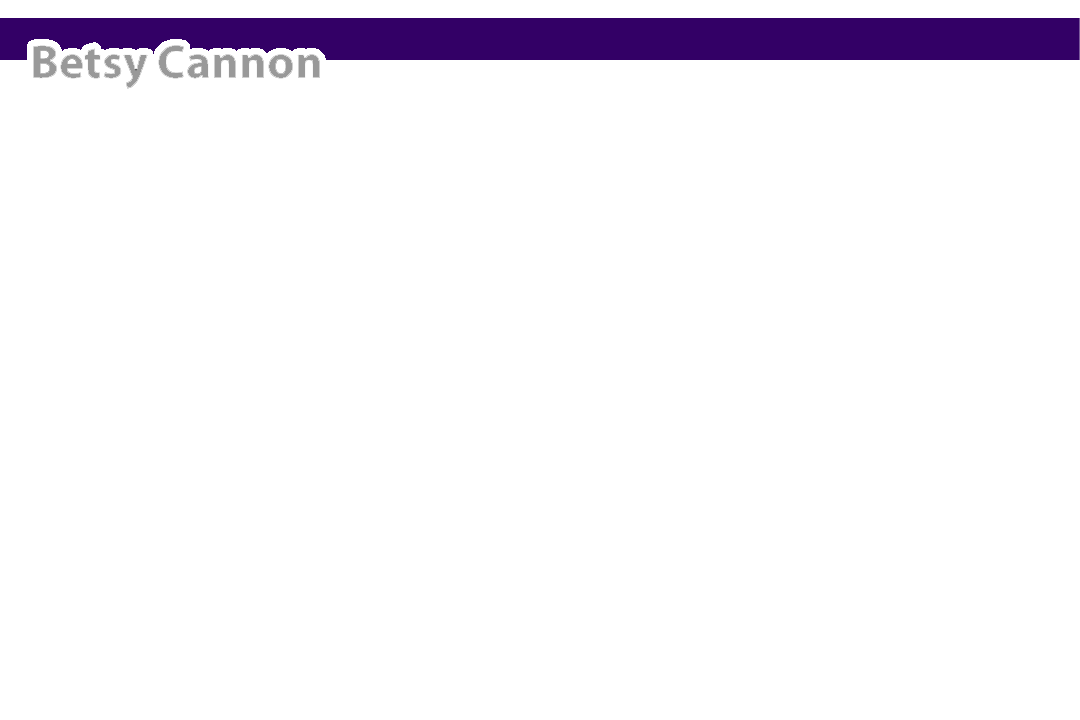
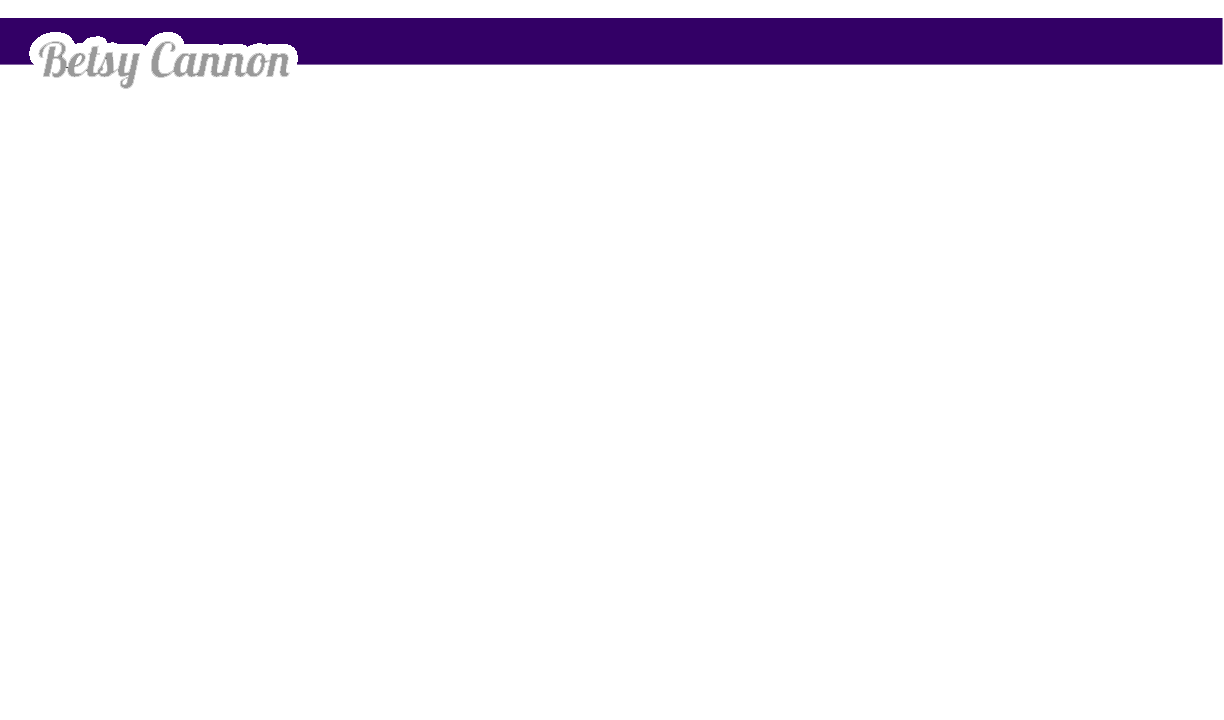
changed header font to Lobster

Changed region(s): [[0.0, 0.0306, 1.0, 0.1222]]

diff --git a/_layouts/layout1.html b/_layouts/layout1.html
@@ -29,7 +29,7 @@
 
 
     <div class="container">
-        <h1 class="remove-bottom" style="margin-top: 85px">Fork Lady</h1>
+        <h1 class="remove-bottom" style="margin-top: 95px">Fork Lady</h1>
 		
         <div class="one-third column">
 			<h3>Mr. Hyde?</h3>
